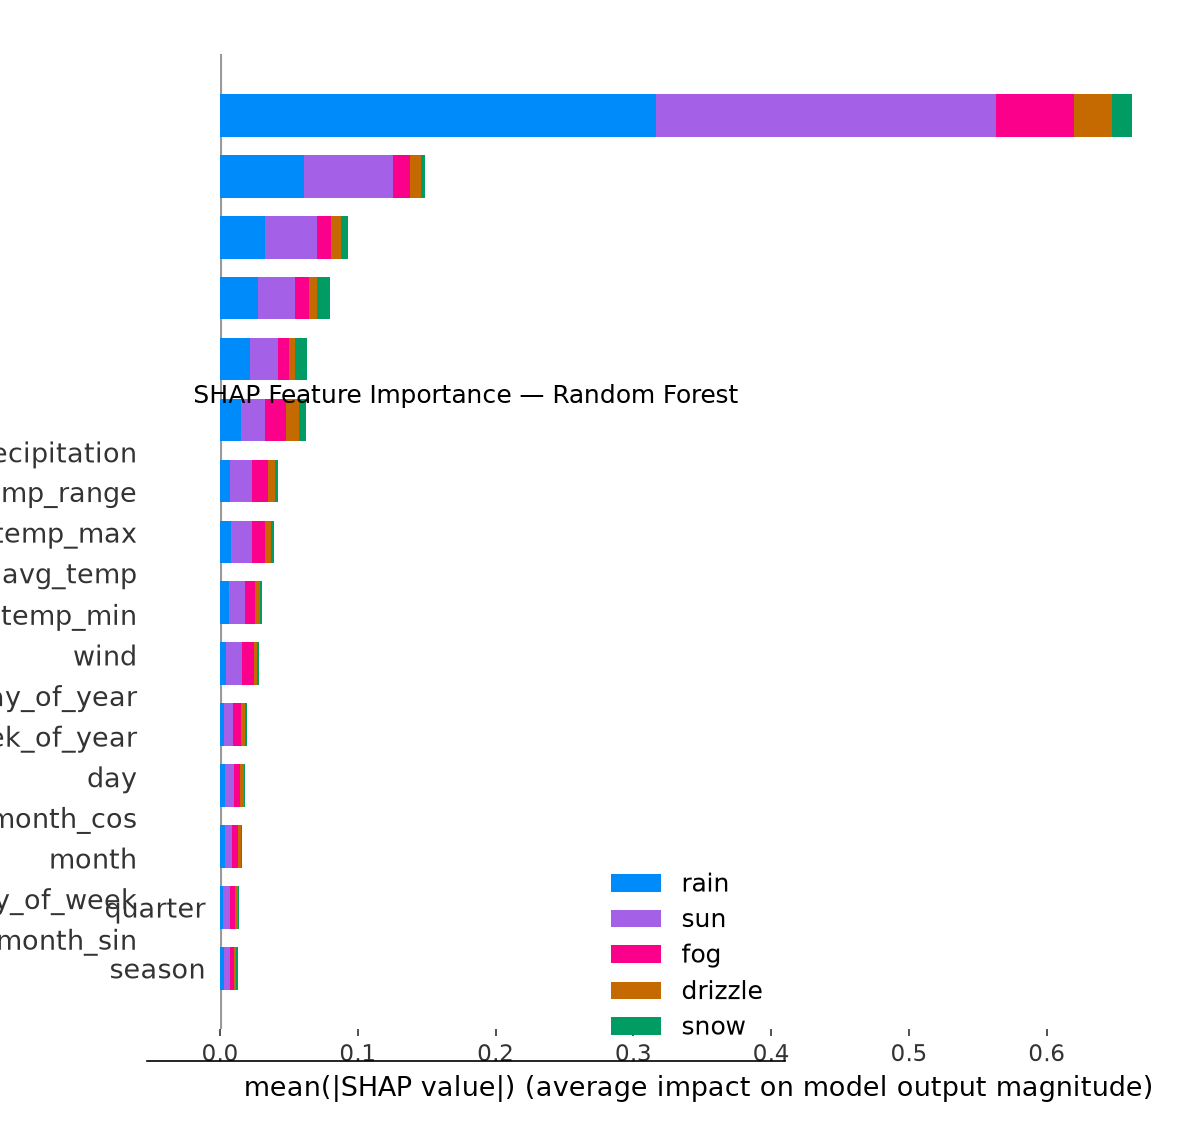
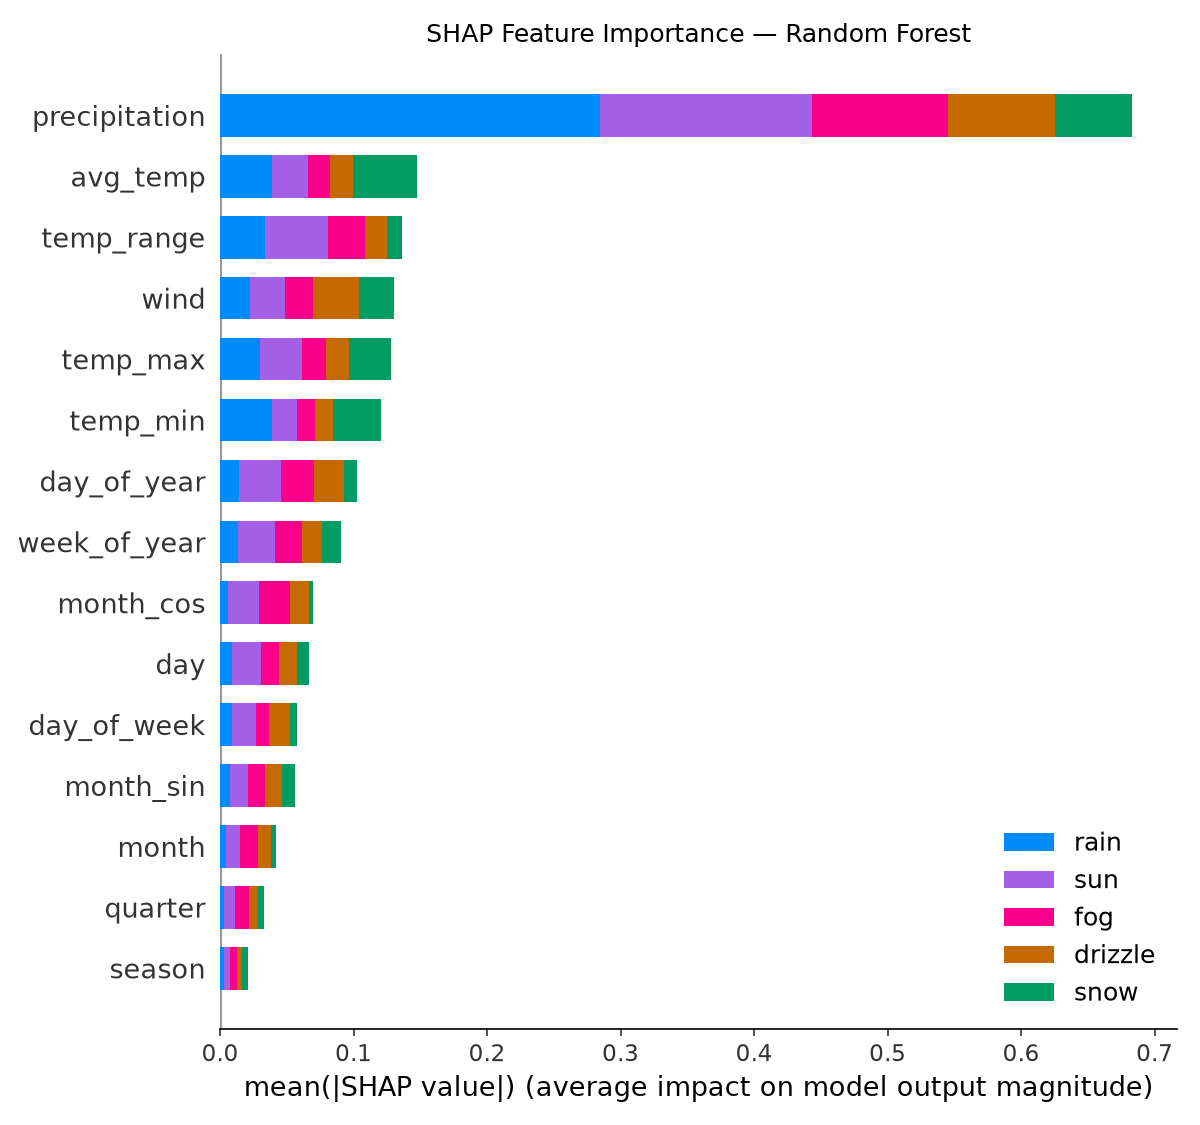
Model Optimization

diff --git a/src/explain.py b/src/explain.py
@@ -46,6 +46,16 @@ class ModelExplainer:
         else:
             self.scaler = None
 
+        # Classical models are saved as a SMOTE + classifier imblearn
+        # Pipeline (see train.py). shap.TreeExplainer needs the raw tree
+        # estimator, not the pipeline wrapper — self.model is still used
+        # for .predict()/.predict_proba() calls (SMOTE is a no-op there),
+        # self.tree_model is only for SHAP's internal tree inspection.
+        if not self.is_nn and hasattr(self.model, "named_steps"):
+            self.tree_model = self.model.named_steps["clf"]
+        else:
+            self.tree_model = self.model
+
     # --------------------------------------------------
     # Build the right SHAP explainer for the winning model
     # --------------------------------------------------
@@ -53,7 +63,7 @@ class ModelExplainer:
 
         if not self.is_nn:
             # TreeExplainer is fast and exact for RandomForest / GradientBoosting.
-            explainer = shap.TreeExplainer(self.model)
+            explainer = shap.TreeExplainer(self.tree_model)
             X_sample = self.X.sample(
                 min(len(self.X), 500), random_state=42
             )
@@ -134,8 +144,10 @@ class ModelExplainer:
         """
 
         if not self.is_nn:
-            explainer = shap.TreeExplainer(self.model)
+            explainer = shap.TreeExplainer(self.tree_model)
             shap_values = explainer.shap_values(feature_row)
+            # self.model (the full SMOTE+classifier pipeline) is used for
+            # the actual prediction — SMOTE is a no-op outside of .fit().
             predicted_class = int(self.model.predict(feature_row)[0])
 
             # shap_values shape depends on sklearn/shap version:

diff --git a/streamlit_app.py b/streamlit_app.py
@@ -222,7 +222,7 @@ if page == "🏠 Overview":
   run / prediction is logged for full traceability.
 - **Advanced feature engineering** — cyclic month encodings, seasonal
   buckets, temperature range & average, calendar features.
-- **Three trained models** — Random Forest, Gradient Boosting, and a
+- **Five trained models** — Random Forest, Gradient Boosting, Hist Gradient Boosting, Extra Trees and a
   TensorFlow Neural Network, auto-compared and the best one promoted.
 - **Explainable AI** — SHAP tells you *why* a prediction was made, not just
   what it was.